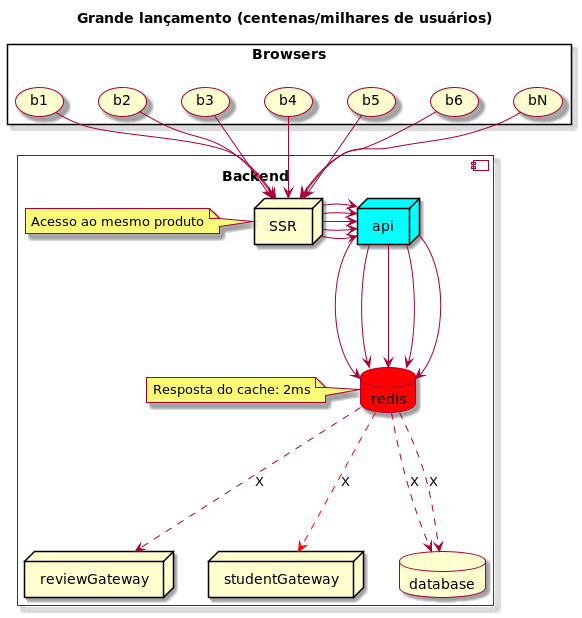
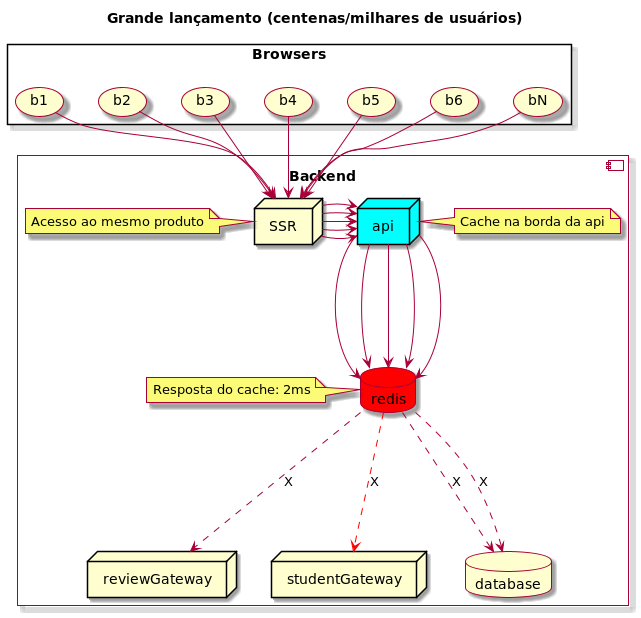
Adding cache teset

diff --git a/src/main/java/dev/charlesardsilva/lecturecachecontent/controller/ProductPageController.java b/src/main/java/dev/charlesardsilva/lecturecachecontent/controller/ProductPageController.java
@@ -2,12 +2,15 @@ package dev.charlesardsilva.lecturecachecontent.controller;
 
 import dev.charlesardsilva.lecturecachecontent.controller.dto.PageResponse;
 import dev.charlesardsilva.lecturecachecontent.service.ProductPageService;
+import io.swagger.v3.oas.annotations.Operation;
+import io.swagger.v3.oas.annotations.tags.Tag;
 import org.springframework.beans.factory.annotation.Qualifier;
 import org.springframework.web.bind.annotation.GetMapping;
 import org.springframework.web.bind.annotation.PathVariable;
 import org.springframework.web.bind.annotation.RequestMapping;
 import org.springframework.web.bind.annotation.RestController;
 
+@Tag(name = "Product with no cache")
 @RestController
 @RequestMapping("v1/page/products")
 public class ProductPageController {
@@ -16,8 +19,10 @@ public class ProductPageController {
     public ProductPageController(@Qualifier("productPageServiceNoCache") ProductPageService productPageService) {
         this.productPageService = productPageService;
     }
+
+    @Operation(summary = "Get a product page")
     @GetMapping("/{id}")
-    public PageResponse getByUcode(@PathVariable("id") String id) {
+    public PageResponse getById(@PathVariable("id") String id) {
       return productPageService.getPage(id);
     }
 }

diff --git a/src/main/java/dev/charlesardsilva/lecturecachecontent/controller/ProductPageControllerV2.java b/src/main/java/dev/charlesardsilva/lecturecachecontent/controller/ProductPageControllerV2.java
@@ -2,12 +2,15 @@ package dev.charlesardsilva.lecturecachecontent.controller;
 
 import dev.charlesardsilva.lecturecachecontent.controller.dto.PageResponse;
 import dev.charlesardsilva.lecturecachecontent.service.ProductPageService;
+import io.swagger.v3.oas.annotations.Operation;
+import io.swagger.v3.oas.annotations.tags.Tag;
 import org.springframework.beans.factory.annotation.Qualifier;
 import org.springframework.web.bind.annotation.GetMapping;
 import org.springframework.web.bind.annotation.PathVariable;
 import org.springframework.web.bind.annotation.RequestMapping;
 import org.springframework.web.bind.annotation.RestController;
 
+@Tag(name = "Product using cache")
 @RestController
 @RequestMapping("v2/page/products")
 public class ProductPageControllerV2 {
@@ -18,8 +21,9 @@ public class ProductPageControllerV2 {
         this.productPageService = productPageService;
     }
 
+    @Operation(summary = "Get a product page")
     @GetMapping("/{id}")
-    public PageResponse getByUcode(@PathVariable("id") String id) {
+    public PageResponse getById(@PathVariable("id") String id) {
         return productPageService.getPage(id);
     }
 }

diff --git a/src/main/java/dev/charlesardsilva/lecturecachecontent/service/ProductPageServiceImpl.java b/src/main/java/dev/charlesardsilva/lecturecachecontent/service/ProductPageServiceImpl.java
@@ -5,7 +5,7 @@ import dev.charlesardsilva.lecturecachecontent.controller.dto.PageResponse;
 
 public class ProductPageServiceImpl {
 
-    private static final String CHECKOUT_CONFIG = "showOtherProducts";
+    private static final String CHECKOUT_CONFIG = "checkout_enabled";
 
     private final ProductService productService;
     private final ConfigService configService;
@@ -33,8 +33,8 @@ public class ProductPageServiceImpl {
 
         // More code that can not be cached
 
-
-        return null;
+        return new PageResponse(id,product.copy(),
+        product.photo(), product.slug(), amountOfStudents, rating, Boolean.parseBoolean(config.value().toString()));
 
     }
 }

diff --git a/src/main/java/dev/charlesardsilva/lecturecachecontent/gateway/StudentGateway.java b/src/main/java/dev/charlesardsilva/lecturecachecontent/gateway/StudentGateway.java
@@ -2,18 +2,19 @@ package dev.charlesardsilva.lecturecachecontent.gateway;
 
 import org.springframework.stereotype.Component;
 
+import java.util.Random;
 import java.util.concurrent.TimeUnit;
 
 @Component
 public class StudentGateway {
 
-    public int amountOfStudents(long productId) {
+    public int amountOfStudents(String productId) {
         try {
-            TimeUnit.MILLISECONDS.sleep(300);
+            TimeUnit.MILLISECONDS.sleep(100);
         } catch (InterruptedException e) {
             throw new RuntimeException(e);
         }
-        // colocar random
-        return  10;
+
+        return new Random().nextInt();
     }
 }

diff --git a/src/main/java/dev/charlesardsilva/lecturecachecontent/controller/dto/PageResponse.java b/src/main/java/dev/charlesardsilva/lecturecachecontent/controller/dto/PageResponse.java
@@ -1,9 +1,11 @@
 package dev.charlesardsilva.lecturecachecontent.controller.dto;
 
-public record PageResponse(String ucode,
+public record PageResponse(String id,
                            String copy,
                            String photo,
                            String slug,
                            int students,
-                           boolean active) {
+                           double rating,
+                           boolean checkoutEnabled) {
+
 }

diff --git a/src/main/java/dev/charlesardsilva/lecturecachecontent/repository/ProductRepository.java b/src/main/java/dev/charlesardsilva/lecturecachecontent/repository/ProductRepository.java
@@ -10,10 +10,10 @@ public class ProductRepository {
 
     public Product findByUcode(String id) {
         try {
-            TimeUnit.MILLISECONDS.sleep(300);
+            TimeUnit.MILLISECONDS.sleep(100);
         } catch (InterruptedException e) {
             throw new RuntimeException(e);
         }
-        return new Product(id, true);
+        return new Product(id, "Produto de teste", "https://x", "product-teste" ,true);
     }
 }

diff --git a/src/main/java/dev/charlesardsilva/lecturecachecontent/repository/ConfigRepository.java b/src/main/java/dev/charlesardsilva/lecturecachecontent/repository/ConfigRepository.java
@@ -10,11 +10,11 @@ public class ConfigRepository {
 
     public Config findByKey(String key) {
         try {
-            TimeUnit.MILLISECONDS.sleep(100);
+            TimeUnit.MILLISECONDS.sleep(30);
         } catch (InterruptedException e) {
             throw new RuntimeException(e);
         }
 
-        return new Config("showOtherProducts", false);
+        return new Config("checkout_enabled", true);
     }
 }

diff --git a/src/main/java/dev/charlesardsilva/lecturecachecontent/LectureCacheContentApplication.java b/src/main/java/dev/charlesardsilva/lecturecachecontent/LectureCacheContentApplication.java
@@ -2,8 +2,10 @@ package dev.charlesardsilva.lecturecachecontent;
 
 import org.springframework.boot.SpringApplication;
 import org.springframework.boot.autoconfigure.SpringBootApplication;
+import org.springframework.cache.annotation.EnableCaching;
 
 @SpringBootApplication
+@EnableCaching
 public class LectureCacheContentApplication {
 
 	public static void main(String[] args) {

diff --git a/src/main/java/dev/charlesardsilva/lecturecachecontent/service/StudentServiceWithCache.java b/src/main/java/dev/charlesardsilva/lecturecachecontent/service/StudentServiceWithCache.java
@@ -12,7 +12,7 @@ public class StudentServiceWithCache implements StudentService {
         this.studentServiceNoCache = studentServiceNoCache;
     }
 
-    @Cacheable
+    @Cacheable("students")
     public int amountOfStudents(String productId) {
         return studentServiceNoCache.amountOfStudents(productId);
     }

diff --git a/src/main/java/dev/charlesardsilva/lecturecachecontent/service/ReviewServiceWithCache.java b/src/main/java/dev/charlesardsilva/lecturecachecontent/service/ReviewServiceWithCache.java
@@ -12,8 +12,8 @@ class ReviewServiceWithCache implements ReviewService{
         this.reviewServiceNoCache = reviewServiceNoCache;
     }
 
-    @Cacheable
-    public int rating(String id) {
+    @Cacheable("reviews")
+    public double rating(String id) {
         return reviewServiceNoCache.rating(id);
     }
 }

diff --git a/src/main/java/dev/charlesardsilva/lecturecachecontent/service/ProductPageServiceWithCache.java b/src/main/java/dev/charlesardsilva/lecturecachecontent/service/ProductPageServiceWithCache.java
@@ -18,7 +18,7 @@ public class ProductPageServiceWithCache extends ProductPageServiceImpl implemen
         super(productService, configService, studentService, reviewService);
     }
 
-    @Cacheable
+    @Cacheable("pages")
     public PageResponse getPage(String id) {
         return super.getPage(id);
     }

diff --git a/src/main/java/dev/charlesardsilva/lecturecachecontent/service/StudentServiceNoCache.java b/src/main/java/dev/charlesardsilva/lecturecachecontent/service/StudentServiceNoCache.java
@@ -14,7 +14,7 @@ public class StudentServiceNoCache implements StudentService{
         this.studentGateway = studentGateway;
     }
 
-    public int amountOfStudents(long productId) {
+    public int amountOfStudents(String productId) {
         return studentGateway.amountOfStudents(productId);
     }
 }
